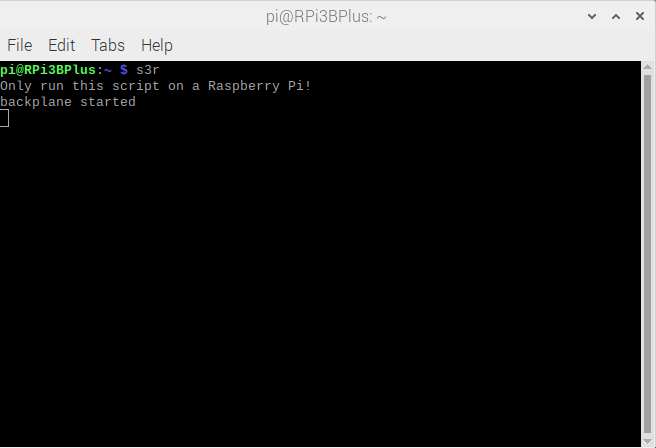
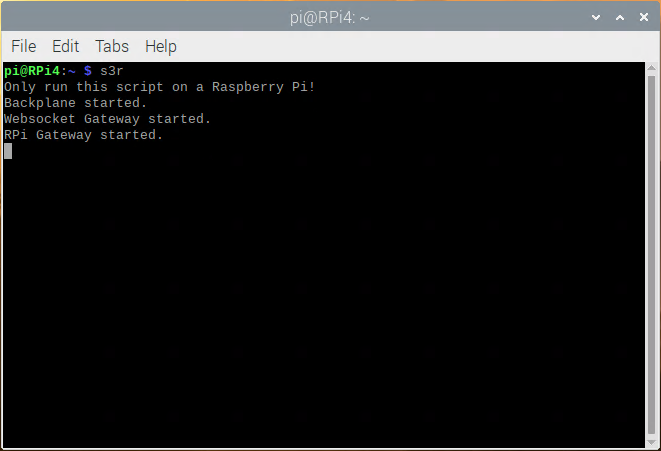
initial mkdocs commit

Changed region(s): [[0.0, 0.0, 1.0, 1.0]]

diff --git a/docs/ext_ard.md b/docs/ext_ard.md
@@ -13,58 +13,61 @@ s3a
 <img src="../images/s3a-1.png" >
 
 This command automatically starts the Python Banyan Backplane, and both
-the Banyan WebSocket and Banyan Arduino Gateways. The s3a command will
-automatically open two other windows, one for the Arduino Gateway, and
-the other for the Web Socket Gateway.
+the Banyan WebSocket and Banyan Arduino Gateways. It starts an automatic 5-second
+countdown timer to allow the Arduino adequate time to reset itself and start the 
+Firmata-Express sketch.
 
-Visit "A Peek Under The Hood" for more information about the Backplane and Gateways.
+To learn more about the Backplane and Gateways, visit "A Peek Under The Hood"
+ for more information.
+
+
+After the countdown time completes, the terminal window indicates that the Arduino
+is initialized. You may now start Scratch 3 in your Web browser, as explained in the
+"Launching Scratch 3" section of this document.
 
 <img src="../images/s3a-2.png" > 
 
-The Arduino Gateway window displays a Banyan information header,
-including the Arduino's com port. Note that it will take about four 
-seconds for the Arduino Gateway to perform board discovery.
 
-<img src="../images/s3a-3.png" >
+## Manually Specifying The COM Port
 
-The WebSocket Gateway displays an informational banner with the
-WebSocket IP address and port number in use.
+The Arduino Gateway will automatically discover the COM port that the Arduino Gateway
+is using. 
 
-You may now start Scratch 3 in your Web browser, as explained in the
-"Launching Scratch 3" section of this document.
+If you wish to manually specify the COM port, use the **_-c_** command-line option
+when starting s3a.
 
-If you wish to specify a COM port manually, then start s3a with a 
--c command-line option:
+For example, if you are using Windows and the COM port you wish to use is COM6, then,
+start s3a with the following command:
 
 ```
 s3a -c COM6
 ```
 
-If you wish to use the
+For Linux or macOS, use the COM port designator specific to your operating system. 
+For example, if the COM port is /dev/ttyACM0, then start s3a with the following command:
+
+```
+s3a -c /dev/ttyACM0
+```
+
+## Manually Specifying An Arduino Instance
+
+If you have multiple Arduino's plugged into your computer, you can explicitly
+tell s3a which one to use by taking advantage of the 
 [pymata-express Arduino Instance Id Feature,](https://mryslab.github.io/pymata-express/firmata_express/)
-you may do so using the -i command-line option:
+
+You may do so using the **_-i_** command-line option:
 
 ```
 s3a -i 2
 ```
 
-If you wish to turn on logging, use the -l command-line option
-
-```
-s3a -l True
-```
-
-There are two possible logs that will be placed in your home directory,
-ardgw.log and wsgw.log.
-
 ## Troubleshooting
 
-Only use a high-quality USB cable. Make sure that the USB cable you are
-using is fully plugged into your computer and the Arduino. If only one
-or none of the Gateway windows stay open, dismiss s3a by pressing
-Control-C and dismiss the terminal window.
+Only use a high-quality USB cable. Verify that you properly connected the cable to both your computer and the Arduino. 
+If s3a detects an error in either the backplane or the two gateways, it will shut itself down. 
 
-Open a new terminal and type:
+To troubleshoot why this may be happening, open a new terminal window and type:
 
 ```
 backplane
@@ -80,8 +83,10 @@ Next, open an additional terminal window and type:
 ```
 ardgw
 ```
-You should see a window similar to the one shown above for the Arduino
-Gateway when the s3a command succeeds.
+
+<img src="../images/ardgw_success.png" >
+
+You should see a window similar to the one shown above.
 
 If you do not, make sure that you've flashed the Arduino with the
 FirmataExpress sketch, as explained in the "Preparing Your
@@ -95,8 +100,10 @@ Next, open a third terminal window and type:
 ```
 wsgw
 ```
-You should see a window similar to the one shown above for the WebSocket
-Gateway when the s3a command succeeds. 
+
+<img src="../images/wsgwa_success.png" >
+
+You should see a window similar to the one shown above.
 
 If there are exceptions or errors in any of the terminal windows,
 [create an issue against the s3-extend distribution](https://github.com/MrYsLab/s3-extend/issues)

diff --git a/docs/ext_rpi.md b/docs/ext_rpi.md
@@ -2,7 +2,7 @@
 
 Apply power to the Raspberry Pi. 
 
-Next, open a terminal window and type:
+Next, after logging in, open a terminal window and type:
 
 ```
 s3r
@@ -12,33 +12,20 @@ s3r
 <img src="../images/s3r-1.png" >
 
 This command automatically starts the Python Banyan Backplane, and both
-the Banyan WebSocket and Banyan Raspberry Pi Gateways. The s3r command
-will automatically open two other windows, one for the Raspberry Pi Gateway,
-and the other for the Web Socket Gateway.
+the Banyan WebSocket and Banyan Raspberry Pi Gateways. 
 
 **IMPORTANT NOTE:** The s3r command is intended to run exclusively on a
 Raspberry Pi.
 
 Visit "A Peek Under The Hood" for more information about the Backplane and Gateways.
 
-<img src="../images/s3r-2.png" > 
-
-The Raspberry Pi Gateway window displays a Banyan information header and
-the current version number for the pigpiod library.
-
-<img src="../images/s3r-3.png" >
-
-The WebSocket Gateway displays an informational banner with the
-WebSocket IP address and port number in use.
-
 You may now start Scratch 3 in your Web browser, as explained in the
 "Launching Scratch 3" section of this document.
 
 ## Troubleshooting
-If only one or none of the Gateway windows stay open, dismiss s3e by
-pressing Control-C and dismiss the terminal window.
+If the command window does not look similar to the one above, 
+open a new terminal and type:
 
-Open a new terminal and type:
 
 ```
 backplane
@@ -47,21 +34,31 @@ You should see a similar output, as shown below, indicating that the
 backplane is running correctly. The IP address does not need to match
 the one shown.
 
-<img src="../images/backplane.png" >
+<img src="../images/s3r-2.png" >
 
 Next, open an additional terminal window and type:
 
 ```
 rpigw
 ```
-You should see a window similar to the one shown above for the Raspberry
-Pi Gateway when the s3r command succeeds.
+
+<img src="../images/s3r-3.png" >
+
+You should see a window similar to the one shown above for the ESP-8266
+Gateway when the s3e command succeeds.
+
+If you do not, make sure that you've installed MicroPython on the
+ESP-8266 and flashed it with main.py and esp8266_min.py as explained in
+the "Preparing Your Micro-Controller" section of this document.
 
 Next, open a third terminal window and type:
 
 ```
-wsgw
+wsgw -i 9001
 ```
+
+<img src="../images/s3r-4.png" >
+
 You should see a window similar to the one shown above for the WebSocket
 Gateway when the s3e command succeeds. 
 
@@ -69,7 +66,9 @@ If there are exceptions or errors in any of the terminal windows,
 [create an issue against the s3-extend distribution](https://github.com/MrYsLab/s3-extend/issues)
 pasting any error output into the issue comment.
 
+
 <br> <br> <br>
+
 
 
 Copyright (C) 2019 Alan Yorinks All Rights Reserved

diff --git a/docs/ext_esp.md b/docs/ext_esp.md
@@ -13,29 +13,15 @@ s3e
 <img src="../images/s3e-1.png" >
 
 This command automatically starts the Python Banyan Backplane, and both
-the Banyan WebSocket and Banyan ESP-8266 Gateways. The s3e command will
-automatically open two other windows, one for the ESP-8266 Gateway, and
-the other for the Web Socket Gateway.
-
-Visit "A Peek Under The Hood" for more information about the Backplane and Gateways.
-
-<img src="../images/s3e-2.png" > 
-
-The ESP-8266 Gateway window displays a Banyan information header
-
-<img src="../images/s3e-3.png" >
-
-The WebSocket Gateway displays an informational banner with the
-WebSocket IP address and port number in use.
+the Banyan WebSocket and Banyan ESP-8266 Gateways. 
 
 You may now start Scratch 3 in your Web browser, as explained in the
 "Launching Scratch 3" section of this document.
 
 ## Troubleshooting
-If only one or none of the Gateway windows stay open, dismiss s3e by
-pressing Control-C and dismiss the terminal window.
+If the command window does not look similar to the one above, 
+open a new terminal and type:
 
-Open a new terminal and type:
 
 ```
 backplane
@@ -49,8 +35,11 @@ the one shown.
 Next, open an additional terminal window and type:
 
 ```
-espgw
+espgw -w True
 ```
+
+<img src="../images/s3e-2.png" >
+
 You should see a window similar to the one shown above for the ESP-8266
 Gateway when the s3e command succeeds.
 
@@ -61,8 +50,11 @@ the "Preparing Your Micro-Controller" section of this document.
 Next, open a third terminal window and type:
 
 ```
-wsgw
+wsgw -i 9002
 ```
+
+<img src="../images/s3e-3.png" >
+
 You should see a window similar to the one shown above for the WebSocket
 Gateway when the s3e command succeeds. 
 

diff --git a/docs/index.md b/docs/index.md
@@ -1,10 +1,14 @@
 
-<div style="text-align:center;color:#990033; font-family:times, serif; font-size:3.0em">OneGPIO Scratch 3 Extensions For</div>
-
-<div style="text-align:center;color:#990033; font-family:times, serif; font-size:4.0em">Arduino, Raspberry Pi </div>
-<div style="text-align:center;color:#990033; font-family:times, serif; font-size:4.0em">ESP-8266, and Picoboard</div>
+<div style="text-align:center;color:#990033; font-family:times, serif; font-size:3.0em">Installation And Usage Guide</div>
 <br>
-<div style="text-align:center;color:#990033; font-family:times, serif; font-size:3.0em">Installation And Usage</div>
+
+
+
+<div style="text-align:center;color:#990033; font-family:times, serif; font-size:3.0em">Arduino, Raspberry Pi </div>
+<div style="text-align:center;color:#990033; font-family:times, serif; font-size:3.0em">ESP-8266, and Picoboard</div>
+<div style="text-align:center;color:#990033; font-family:times, serif; font-size:3.0em">OneGPIO Scratch 3 Extensions</div>
+
+<br>
 
 <br>
 <img src ="images/extensions.png">
